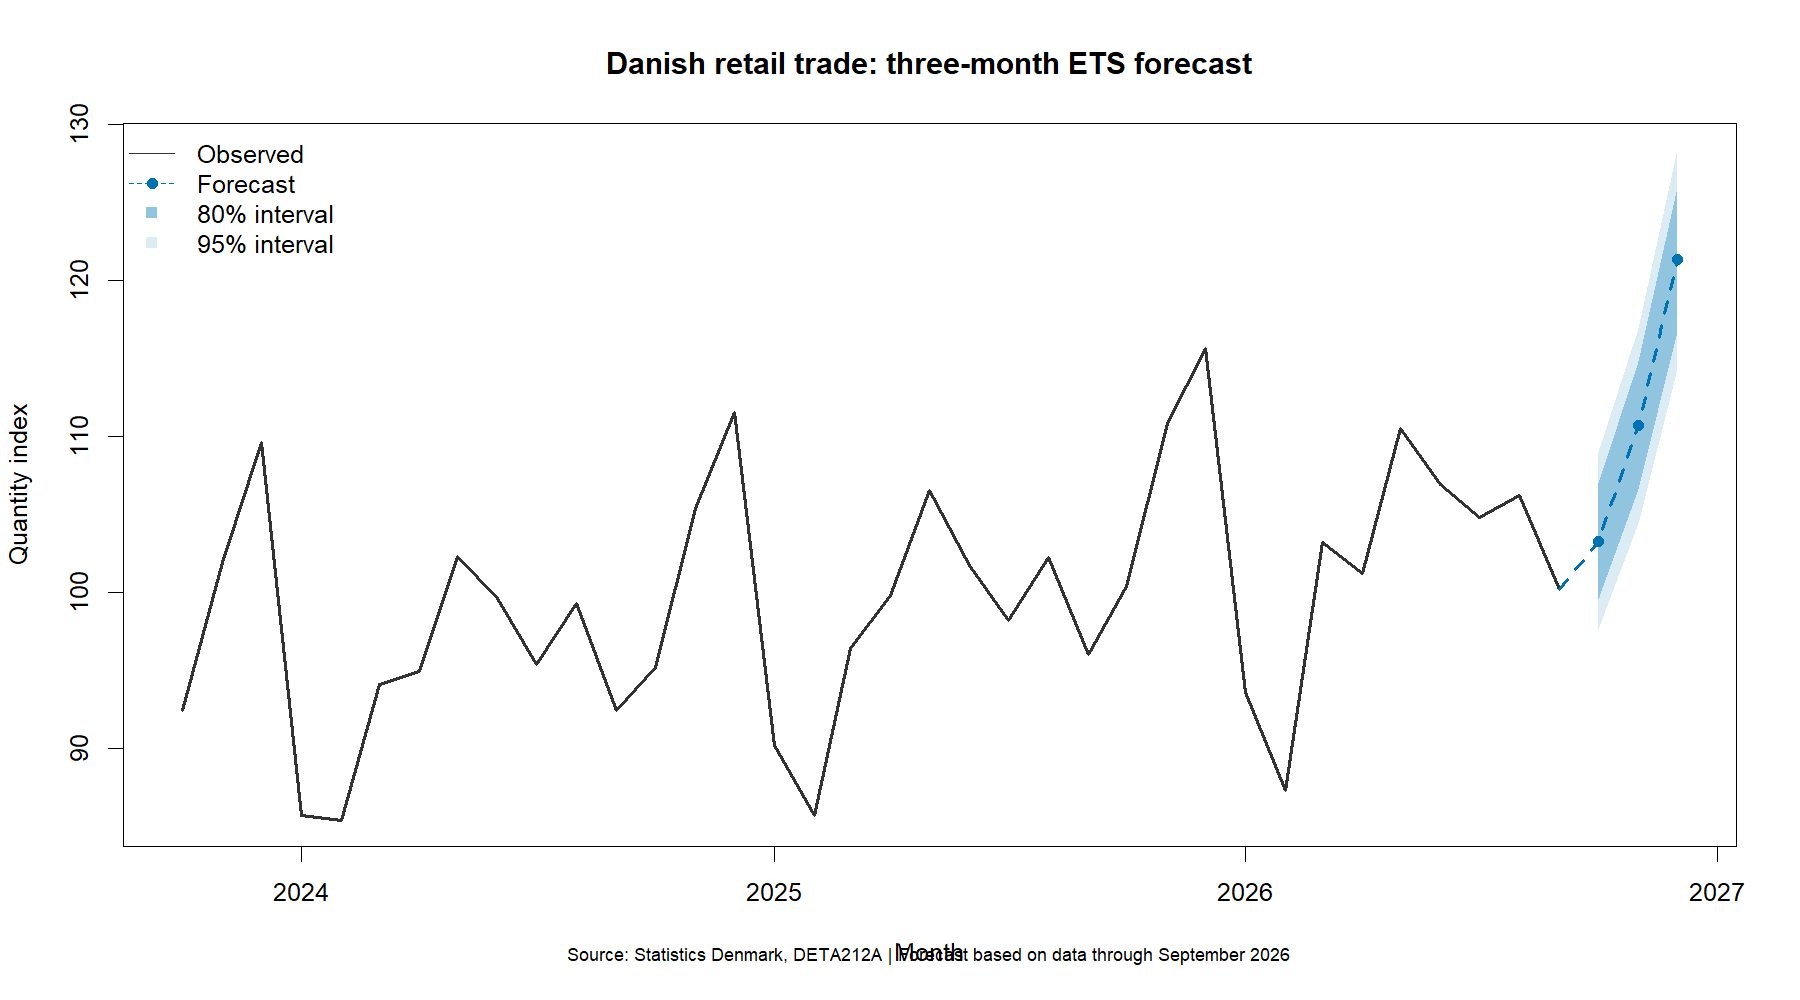
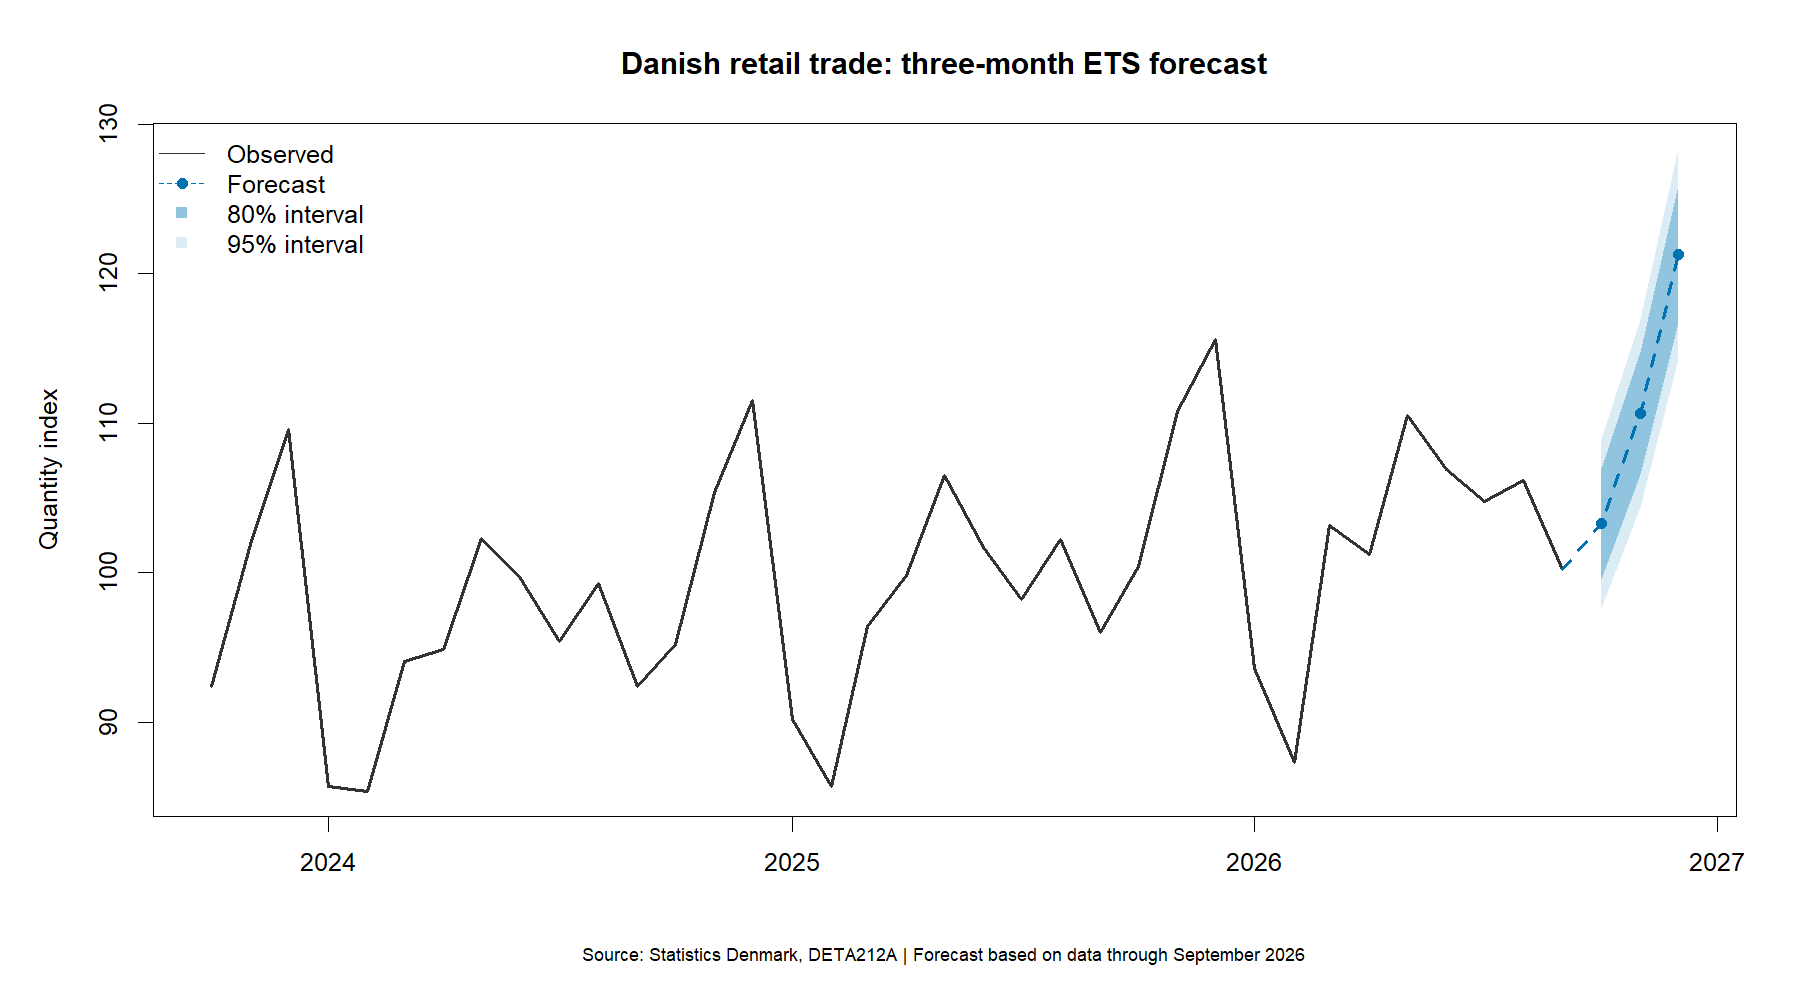
Clarify forecast uncertainty and model documentation

diff --git a/README.md b/README.md
@@ -10,13 +10,40 @@ This project uses public data from Statistics Denmark to analyse monthly retail 
 
 Forecast origin: September 2026. Forecast period: October–December 2026.
 
-| Month | Estimated year-on-year change |
-|---|---:|
-| October 2026 | +2.86% |
-| November 2026 | −0.12% |
-| December 2026 | +4.94% |
+| Month | Estimated year-on-year change | 95% prediction interval |
+|---|---:|---:|
+| October 2026 | +2.86% | −2.78% to +8.49% |
+| November 2026 | −0.12% | −5.78% to +5.54% |
+| December 2026 | +4.94% | −1.16% to +11.0% |
 
-These are model estimates, not observed changes. The chart shows the quantity index and model-based 80% and 95% prediction intervals.
+All three intervals include zero, so both decreases and increases
+relative to the previous year remain plausible under the model.
+
+These are marginal prediction intervals for each month, conditional
+on the model assumptions and treating the corresponding 2025 index
+value as fixed. They do not provide simultaneous 95% coverage
+for all three months.
+
+## Kort resumé på dansk
+
+Projektet undersøger, om tidsseriemodeller kan forbedre prognoser
+for dansk detailhandel sammenlignet med en simpel sæsonnaiv metode.
+
+En ETS-model gav de laveste fejl i krydsvalideringen. I den afsluttende
+evaluering var RMSE 2,49 mod 4,59 indekspoint for den sæsonnaive metode,
+en reduktion på cirka 46%.
+
+Prognosen peger på en stigning på 4,94% i december 2026 sammenlignet
+med december 2025. Modellens 95%-prognoseinterval spænder dog fra
+−1,16% til +11,0%, så både et fald og en stigning er mulige.
+
+Resultaterne kan indgå som et overordnet markedssignal i planlægningen.
+De beskriver detailhandlen på landsplan og kan ikke direkte omsættes
+til lager- eller bemandingsbehov i en bestemt butik.
+
+Evalueringen omfatter kun 10 prognoser pr. horisont, og data kan blive
+revideret. Projektet er en selvstændig porteføljeanalyse og ikke en
+officiel prognose fra Danmarks Statistik.
 
 ## Data
 
@@ -93,7 +120,16 @@ The ETS model fitted to the development data was ETS(M,A,A): multiplicative erro
 
 Its innovations had a mean close to zero. A Ljung–Box test through lag 24, with fitdf = 0, returned p = 0.4127. This did not detect significant autocorrelation at those lags.
 
-The Q-Q plot showed departures in the tails, and several large innovations remained.
+The Q-Q plot showed departures in the tails. The five largest
+absolute innovations occurred in March 2021, January 2021,
+October 2020, March 2020 and May 2020. These dates overlap
+the COVID-19 pandemic period, but this analysis does not
+establish the causes of the deviations.
+
+The other months among the eight largest absolute innovations
+were May 2015, February 2024 and December 2015.
+The complete table is saved in
+`outputs/tables/ets_extreme_innovations.csv`.
 
 ![ETS diagnostics](outputs/figures/ets_diagnostics.png)
 
@@ -103,6 +139,18 @@ In the final evaluation, ETS prediction intervals achieved the following coverag
 - Nominal 95% intervals: 10 of 10 observations, or 100%.
 
 This small sample does not establish that the intervals are well calibrated.
+
+## Final forecast model
+
+After refitting the automatic ETS procedure to all 141 monthly
+observations (January 2015–September 2026), the selected specification
+remained ETS(M,A,A): multiplicative errors, additive trend and additive
+seasonality.
+
+The re-estimated smoothing parameters were alpha = 0.2811083,
+beta = 0.0001000151 and gamma = 0.0001011222.
+The complete model report is saved in
+`outputs/tables/ets_final_report.txt`.
 
 ## Reproduce the analysis
 
